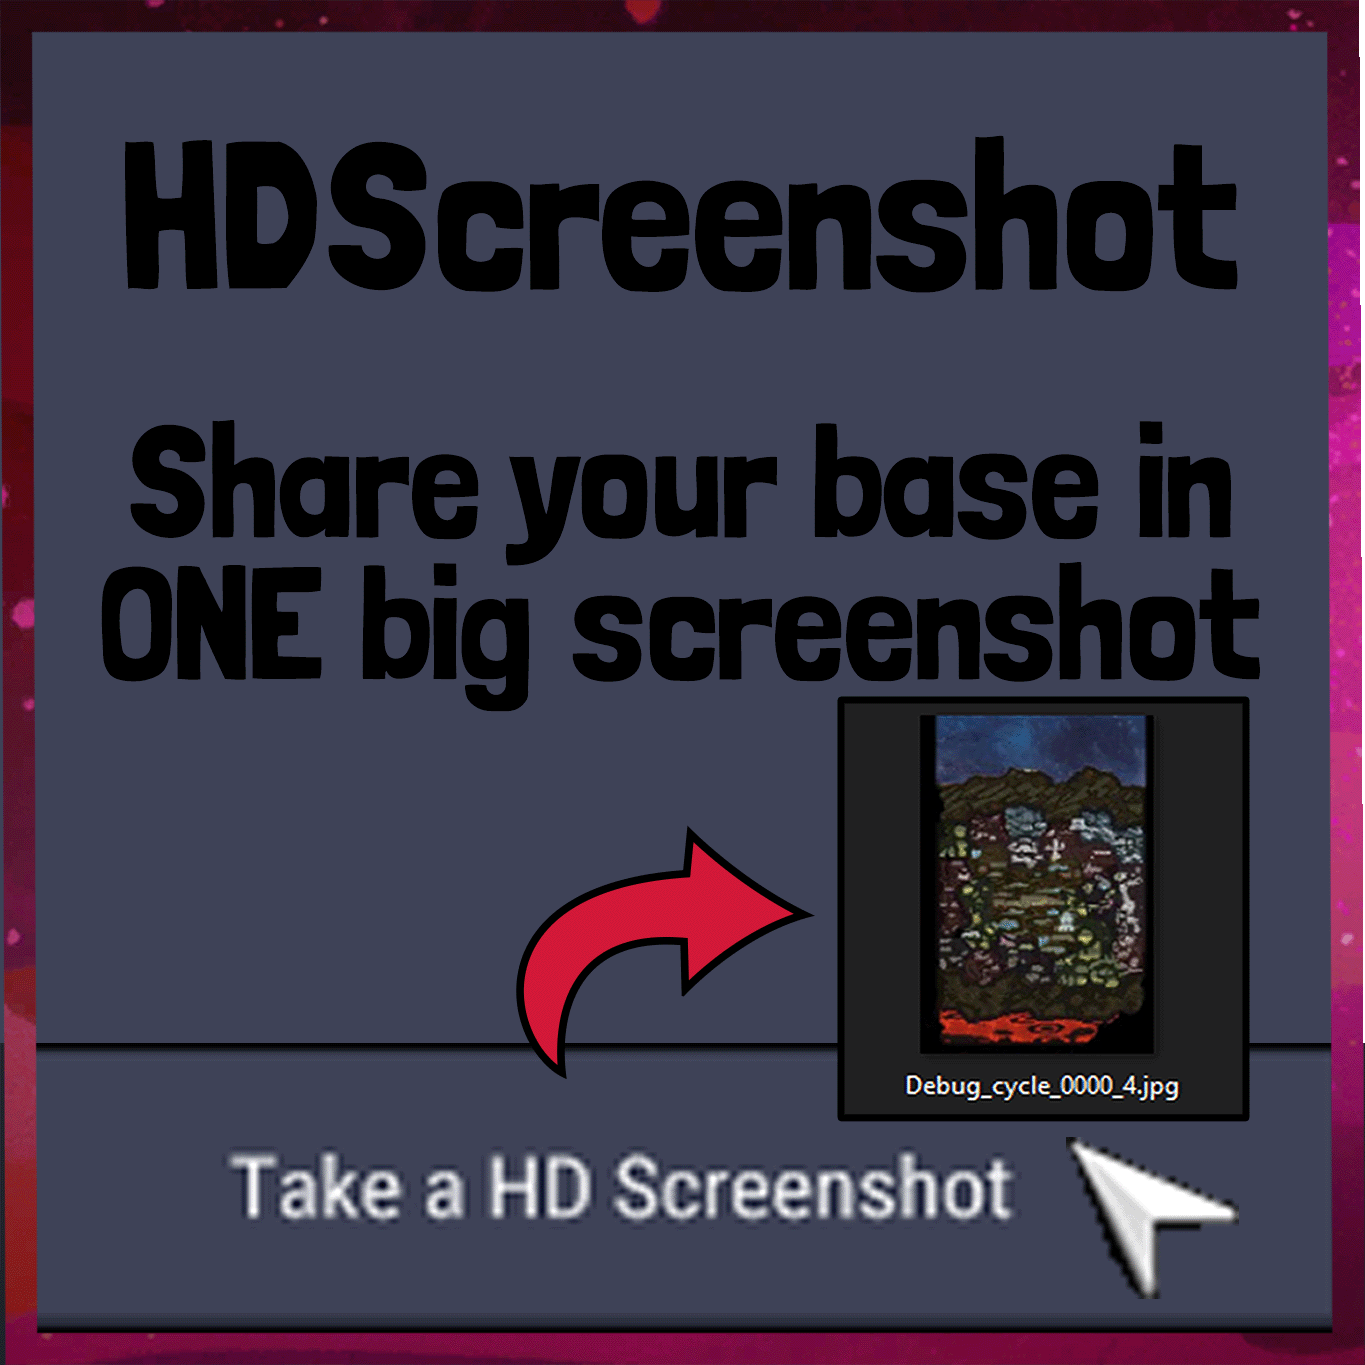
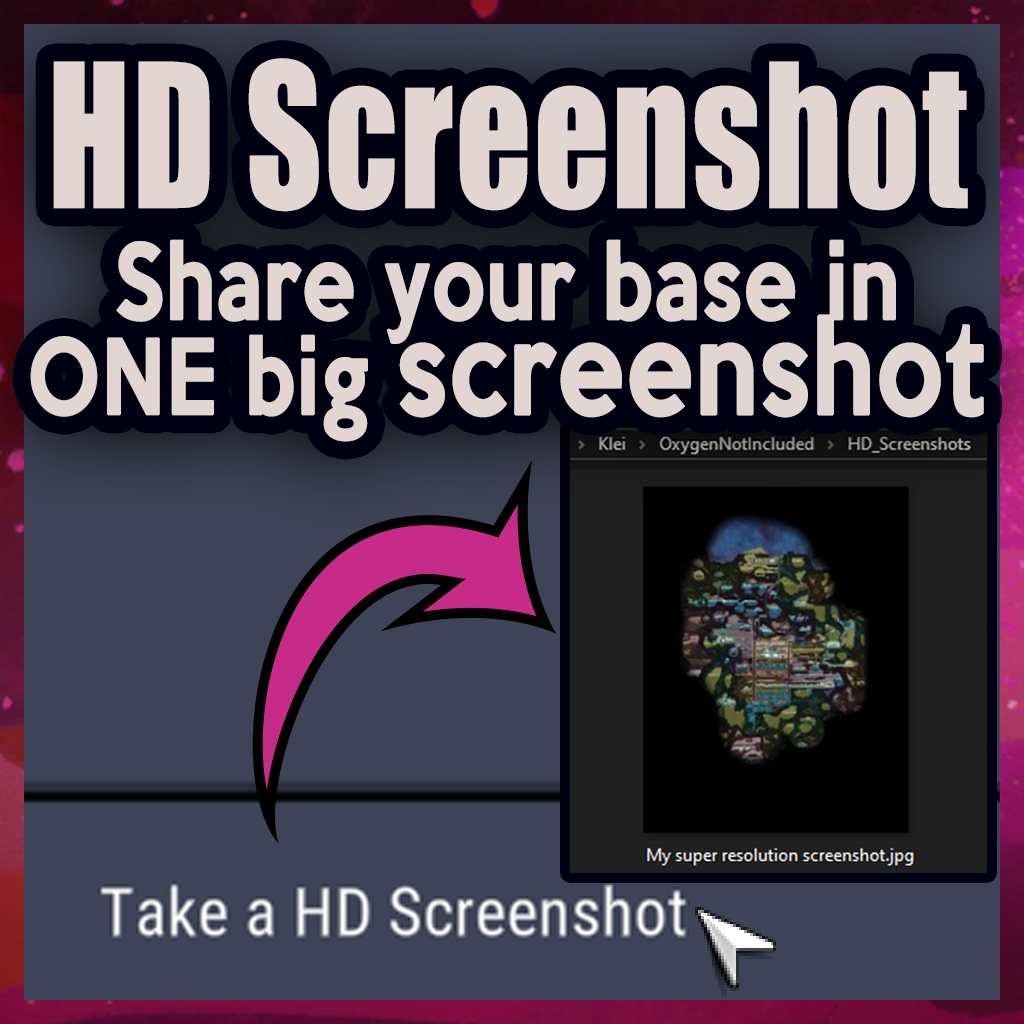
Added a warning on HDScreenshot and made the mod translatable (+ popup bigger)

diff --git a/src/HDScreenShot/Patchs.cs b/src/HDScreenShot/Patchs.cs
@@ -1,6 +1,7 @@
 using HarmonyLib;
 using KMod;
 using PeterHan.PLib.Core;
+using PeterHan.PLib.Database;
 using PeterHan.PLib.Options;
 using Pholib;
 using System.Collections;
@@ -9,7 +10,7 @@ using System.Linq;
 using System.Text;
 using UnityEngine;
 using UnityEngine.Events;
-using static STRINGS.UI.FRONTEND.CUSTOMGAMESETTINGSSCREEN.SETTINGS.DLC_MIXING.LEVELS;
+using UnityEngine.UI;
 
 namespace HDScreenShot
 {
@@ -17,18 +18,35 @@ namespace HDScreenShot
     public class HDScreenshot : UserMod2
     {
         public static HDScreenshotOptions Settings { get; private set; }
+        public static string modPath;
 
         public override void OnLoad(Harmony harmony)
         {
             base.OnLoad(harmony);
             PUtil.InitLibrary();
             new POptions().RegisterOptions(this, typeof(HDScreenshotOptions));
+
+            modPath = path;
+            Utilities.GenerateStringsTemplate(typeof(HD_STRINGS));
+            new PLocalization().Register();
+
         }
     }
 
+    /*[HarmonyPatch(typeof(Localization))]
+    [HarmonyPatch("Initialize")]
+    public static class Localization_Initialize_Patch
+    {
+        public static void Postfix()
+        {
+            Utilities.LoadTranslations(typeof(HD_STRINGS), HDScreenshot.modPath);
+            LocString.CreateLocStringKeys(typeof(HD_STRINGS));
+        }
+    }*/
+
     // Load options when launching the game
     [HarmonyPatch(typeof(Game), "Load")]
-    public static class GameOnLoadPatch
+    public static class HDScreenshot_GameOnLoadPatch
     {
         public static HDScreenshotOptions Settings { get; private set; }
 
@@ -51,7 +69,7 @@ namespace HDScreenShot
 
     [HarmonyPatch(typeof(PauseScreen))]
     [HarmonyPatch("ConfigureButtonInfos")]
-    public static class PauseScreenOnPrefabInit
+    public static class HDScreenshot_PauseScreenOnPrefabInit
     {
         public static PauseScreen Instance;
 
@@ -62,7 +80,7 @@ namespace HDScreenShot
             Instance = __instance;
 
             buttonsList.Insert(buttonsList.Count - 2,
-                new KButtonMenu.ButtonInfo("Take a HD Screenshot", Action.NumActions,
+                new KButtonMenu.ButtonInfo(HD_STRINGS.UI.BUTTON_TEXT, Action.NumActions,
                 new UnityAction(() =>
                 {
                     //UnityEngine.ScreenCapture.CaptureScreenshot(this.GetScreenshotFileName(), 2);
@@ -106,7 +124,7 @@ namespace HDScreenShot
                 }
                 // yield return SequenceUtil.WaitForNextFrame; // DEBUG
                 // yield return SequenceUtil.WaitForEndOfFrame; // DEBUG
-                
+
                 CameraController.Instance.SetPosition(new Vector3(world.WorldOffset.x + (world.WorldSize.x / 2), world.WorldOffset.y + (world.WorldSize.y / 2), CameraController.Instance.transform.position.z));
                 // Traverse.Create(CameraController.Instance).Method("Update").GetValue();
                 CameraController.Instance.VisibleArea.Update();
@@ -121,7 +139,7 @@ namespace HDScreenShot
 
                 // Store renderText
                 RenderTexture active = RenderTexture.active;
-                RenderTexture screenshotTexture = new RenderTexture(GameOnLoadPatch.Settings.ScreenshotWidth, GameOnLoadPatch.Settings.ScreenshotHeight, 32, RenderTextureFormat.ARGB32);
+                RenderTexture screenshotTexture = new RenderTexture(HDScreenshot_GameOnLoadPatch.Settings.ScreenshotWidth, HDScreenshot_GameOnLoadPatch.Settings.ScreenshotHeight, 32, RenderTextureFormat.ARGB32);
                 RenderTexture.active = screenshotTexture;
 
                 LayerMask mask = Traverse.Create(CameraController.Instance).Field<LayerMask>("timelapseCameraCullingMask").Value;
@@ -175,7 +193,7 @@ namespace HDScreenShot
 
             byte[] bytes;
 
-            switch (GameOnLoadPatch.Settings.SavedImageFormat)
+            switch (HDScreenshot_GameOnLoadPatch.Settings.SavedImageFormat)
             {
                 default:
                 case HDScreenshotOptions.ImageFormat.jpg:
@@ -204,32 +222,135 @@ namespace HDScreenShot
             imagePath = imagePath + Path.DirectorySeparatorChar + name + "_cycle_" + GameClock.Instance.GetCycle().ToString(format);
 
             int imageNumber = 1;
-            while (File.Exists(string.Concat(imagePath, imageNumber, ".", GameOnLoadPatch.Settings.SavedImageFormat.ToString())))
+            while (File.Exists(string.Concat(imagePath, imageNumber, ".", HDScreenshot_GameOnLoadPatch.Settings.SavedImageFormat.ToString())))
             {
                 imageNumber += 1;
             }
-            string finalPath = string.Concat(imagePath, imageNumber, ".", GameOnLoadPatch.Settings.SavedImageFormat.ToString());
+            string finalPath = string.Concat(imagePath, imageNumber, ".", HDScreenshot_GameOnLoadPatch.Settings.SavedImageFormat.ToString());
 
             Logs.Log($"Saving screenshot to {finalPath}");
             File.WriteAllBytes(finalPath, bytes);
             ShowDialogScreen(Instance, finalPath);
         }
 
+
         private static void ShowDialogScreen(PauseScreen pauseScreen, string savedPath)
         {
             var builder = new StringBuilder();
 
-            builder.Append("Screenshot saved at: \n").Append(savedPath);
+            builder.Append(HD_STRINGS.UI.SAVED_AT);
+            builder.AppendLine(Utilities.FormatColored(savedPath, "cdf0bb", false));
+            builder.AppendLine();
+            builder.Append(HD_STRINGS.UI.WARNING);
+            builder.AppendLine();
+            builder.Append(HD_STRINGS.UI.TIPS);
 
-            ((ConfirmDialogScreen)GameScreenManager.Instance.StartScreen(
+            ConfirmDialogScreen confirmScreen = (ConfirmDialogScreen)GameScreenManager.Instance.StartScreen(
                 ScreenPrefabs.Instance.ConfirmDialogScreen.gameObject,
-                pauseScreen.transform.parent.gameObject))
-            .PopupConfirmDialog(builder.ToString(),
-                () => { pauseScreen.gameObject.SetActive(true); },
+                pauseScreen.transform.parent.gameObject);
+
+            confirmScreen.PopupConfirmDialog(builder.ToString(),
+                () =>
+                {
+                    pauseScreen.gameObject.SetActive(true);
+                },
                 null,
-                confirm_text: "CLOSE",
+                confirm_text: HD_STRINGS.UI.CLOSE,
                 title_text: "HD Screenshots");
         }
 
+    }
+
+    [HarmonyPatch(typeof(ConfirmDialogScreen), "PopupConfirmDialog")]
+    public class HDScreenshot_ConfirmDialogScreen
+    {
+
+        public static void Postfix(ConfirmDialogScreen __instance)
+        {
+            // Ensure we're on the good ConfirmDialogScreen
+            Transform foundLabel = __instance.GetComponentsInChildren<Transform>().FirstOrDefault(c => c.gameObject.name == "Label");
+            if (foundLabel == null) return;
+            LocText locText = foundLabel.GetComponent<LocText>();
+            if (locText == null || locText.text != "HD Screenshots") return;
+
+            
+
+            /* // Inspect UI for debug
+             * var builder = new StringBuilder();
+            DumpGo(builder, __instance.transform);
+            Logs.Log(builder);
+            */
+
+            // The gameobject with the panel that controls the width is really named "GameObject" ...
+            Transform panelToGrow = __instance.GetComponentsInChildren<Transform>().FirstOrDefault(c => c.gameObject.name == "GameObject");
+            if (panelToGrow == null) return;
+            var rectTransform = panelToGrow.GetComponent<RectTransform>();
+            if (rectTransform == null) return;
+            
+            rectTransform.sizeDelta = new Vector2(rectTransform.sizeDelta.x * 1.8f, rectTransform.sizeDelta.y);
+
+        }
+
+        // Generate spaces to read more easily the logs.
+        private static string TabDepth(int depth)
+        {
+            StringBuilder builder = new StringBuilder();
+            for (int i = 0; i < depth; i++)
+            {
+                builder.Append("  ");
+            }
+            return builder.ToString();
+        }
+
+        // Dump UI because it's pretty complicated.
+        public static void DumpGo(StringBuilder builder, Transform go, int depth = 0)
+        {
+            builder.Append(TabDepth(depth)).Append("->GameObject: ").AppendLine(go.name);
+            RectTransform rectTransform = go.GetComponent<RectTransform>();
+            if (rectTransform != null)
+            {
+                builder.Append(TabDepth(depth)).AppendLine("->RectTransform");
+                builder.Append(TabDepth(depth)).Append("rect: ").AppendLine(rectTransform.rect.ToString());
+                builder.Append(TabDepth(depth)).Append("sizeDelta: ").AppendLine(rectTransform.sizeDelta.ToString());
+            }
+            LayoutElement layoutElement = go.GetComponent<LayoutElement>();
+            if (layoutElement != null)
+            {
+                builder.Append(TabDepth(depth)).AppendLine("->LayoutElement");
+                builder.Append(TabDepth(depth)).Append("preferredWidth: ").AppendLine(layoutElement.preferredWidth.ToString());
+                builder.Append(TabDepth(depth)).Append("preferredHeight: ").AppendLine(layoutElement.preferredHeight.ToString());
+                builder.Append(TabDepth(depth)).Append("minWidth: ").AppendLine(layoutElement.minWidth.ToString());
+                builder.Append(TabDepth(depth)).Append("minHeight: ").AppendLine(layoutElement.minHeight.ToString());
+            }
+
+            LocText locText = go.GetComponent<LocText>();
+            if (locText != null)
+            {
+                builder.Append(TabDepth(depth)).AppendLine("->LocText");
+                builder.Append(TabDepth(depth)).Append("text: ").AppendLine(locText.text);
+                builder.Append(TabDepth(depth)).Append("textInfo: ").AppendLine(locText.textInfo.ToString());
+                builder.Append(TabDepth(depth)).Append("key: ").AppendLine(locText.key);
+            }
+            VerticalLayoutGroup verticalLayoutGroup = go.GetComponent<VerticalLayoutGroup>();
+            if (verticalLayoutGroup != null)
+            {
+                builder.Append(TabDepth(depth)).AppendLine("->VerticalLayoutGroup");
+                builder.Append(TabDepth(depth)).Append("preferredWidth: ").AppendLine(verticalLayoutGroup.preferredWidth.ToString());
+                builder.Append(TabDepth(depth)).Append("preferredHeight: ").AppendLine(verticalLayoutGroup.preferredHeight.ToString());
+                builder.Append(TabDepth(depth)).Append("minWidth: ").AppendLine(verticalLayoutGroup.minWidth.ToString());
+                builder.Append(TabDepth(depth)).Append("minHeight: ").AppendLine(verticalLayoutGroup.minHeight.ToString());
+            }
+
+            if (go.childCount > 0)
+            {
+                builder.Append(TabDepth(depth)).AppendLine("->Childs: ");
+                builder.Append(TabDepth(depth)).AppendLine("{");
+                foreach (Transform child in go.transform)
+                {
+                    DumpGo(builder, child, depth+1);
+                }
+                builder.Append(TabDepth(depth)).AppendLine("}");
+            }
+        }
     }
 }

diff --git a/src/HDScreenShot/HD_STRINGS.cs b/src/HDScreenShot/HD_STRINGS.cs
@@ -1,0 +1,35 @@
+using Pholib;
+
+namespace HDScreenShot
+{
+    public static class HD_STRINGS
+    {
+        public static class UI
+        {
+            public static LocString BUTTON_TEXT = "Take a HD Screenshot";
+            
+            public static LocString SAVED_AT = "Screenshot saved at: \n";
+            
+
+            public static LocString WARNING = Utilities.FormatColored("Sometimes on the screenshot tiles may be blured or \"molting\".\nTo prevent that, before your screenshot: Press Alt+S and unzoom at maximum.\n", "adadad", false);
+
+            public static LocString TIPS = Utilities.FormatColored("TIPS: To take a screenshot of a layer, select the layer in-game and then open the menu by clicking the button rather than pressing ‘ESC’.", "adadad", false);
+
+            public static LocString CLOSE = "CLOSE";
+        }
+
+        public static class OPTIONS
+        {
+            public static LocString WIDTH = "Screenshot width";
+            
+            public static LocString WIDTH_TOOLTIP = "Width of the screenshot in pixels.";
+
+            public static LocString HEIGHT = "Screenshot height";
+
+            public static LocString HEIGHT_TOOLTIP = "Height of the screenshot in pixels.";
+            
+            public static LocString FORMAT = "Screenshot image format";
+
+        }
+    }
+}

diff --git a/src/HDScreenShot/HDScreenshotOptions.cs b/src/HDScreenShot/HDScreenshotOptions.cs
@@ -14,15 +14,15 @@ namespace HDScreenShot
             jpg
         }
 
-        [Option("Screenshot width", "Width of the screenshot in pixels.")]
+        [Option("HDScreenShot.HD_STRINGS.OPTIONS.WIDTH", "HDScreenShot.HD_STRINGS.OPTIONS.WIDTH_TOOLTIP")]
         [JsonProperty]
         public int ScreenshotWidth { get; set; }
 
-        [Option("Screenshot height", "Height of the screenshot in pixels.")]
+        [Option("HDScreenShot.HD_STRINGS.OPTIONS.HEIGHT", "HDScreenShot.HD_STRINGS.OPTIONS.HEIGHT_TOOLTIP")]
         [JsonProperty]
         public int ScreenshotHeight { get; set; }
 
-        [Option("Screenshot image format")]
+        [Option("HDScreenShot.HD_STRINGS.OPTIONS.FORMAT")]
         [JsonProperty]
         public ImageFormat SavedImageFormat { get; set; }
 

diff --git a/src/WallPumps/WallPumpsPatchs.cs b/src/WallPumps/WallPumpsPatchs.cs
@@ -67,8 +67,6 @@ namespace WallPumps
         {
             Utilities.LoadTranslations(typeof(WALLPUMP_STRINGS), WallPumpsPatchs.modPath);
             LocString.CreateLocStringKeys(typeof(WALLPUMP_STRINGS.UI_ADD));
-            Pholib.Utilities.GenerateStringsTemplate(typeof(WALLPUMP_STRINGS));
-
         }
     }
     [HarmonyPatch(typeof(Db))]